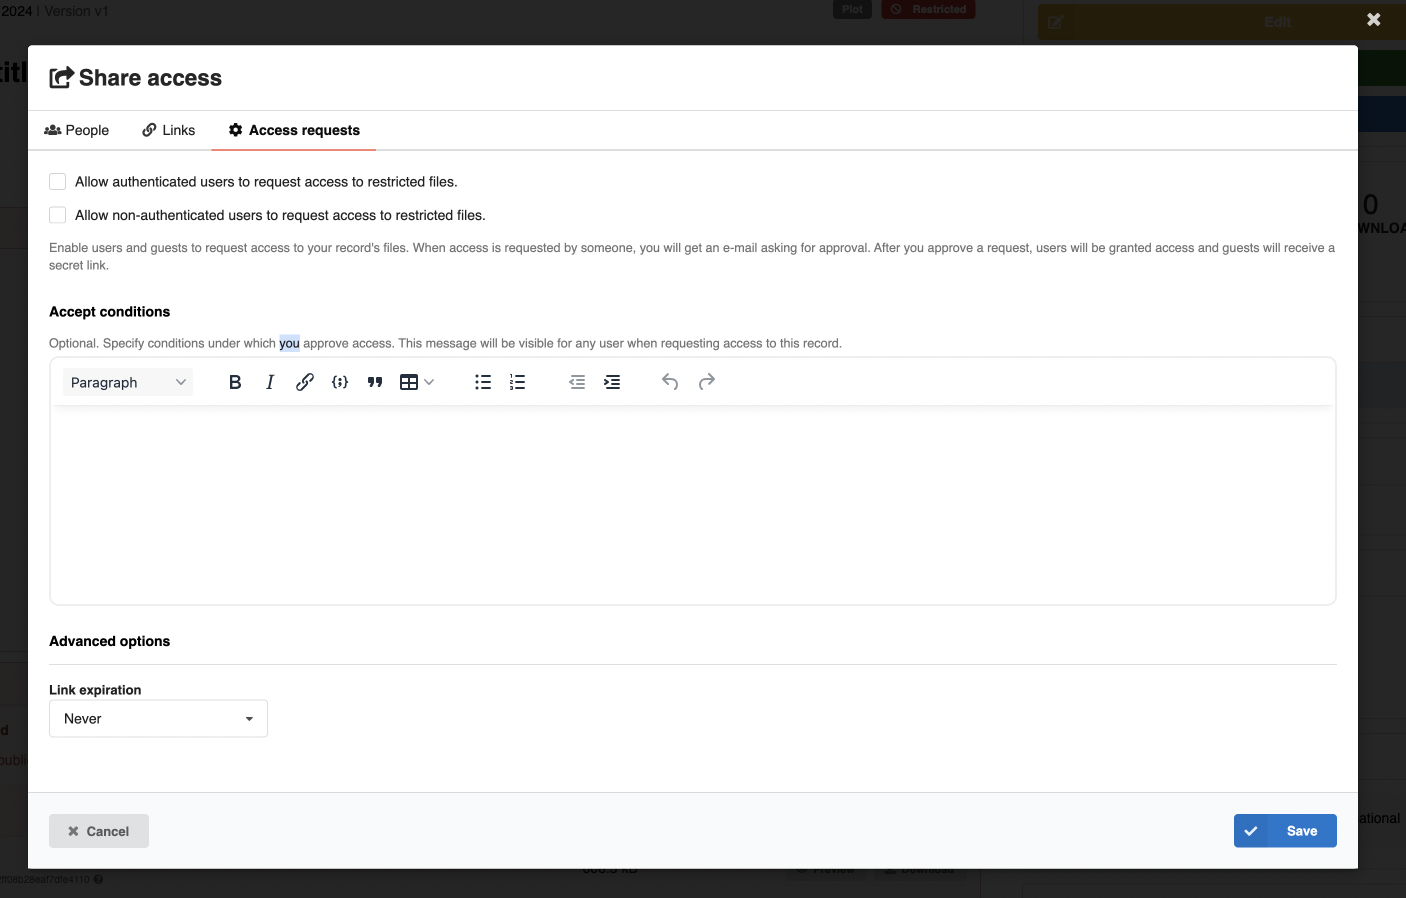
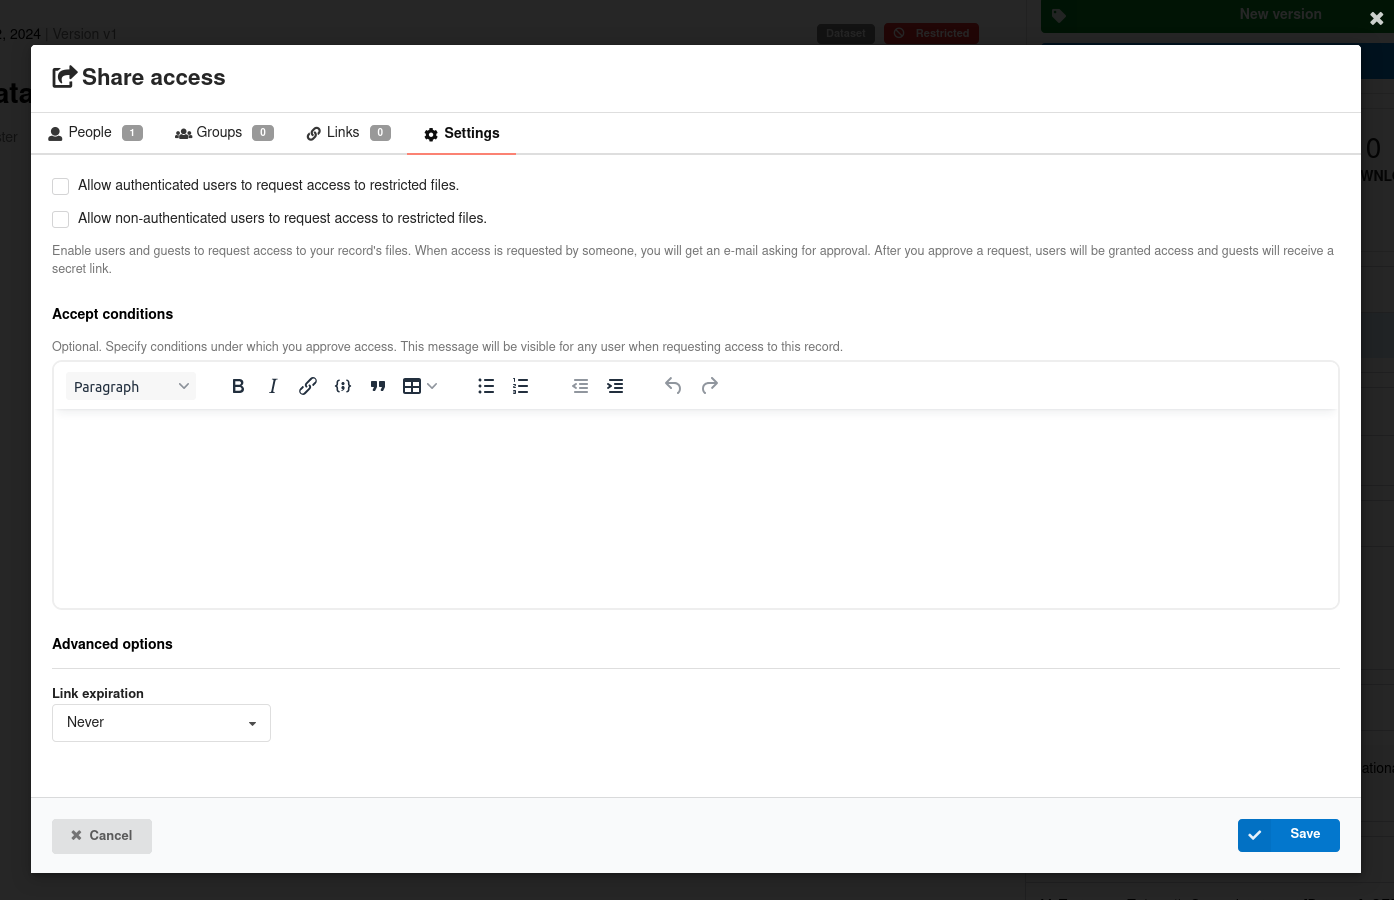
notifications+access request: primp for v12 release notes

diff --git a/docs/features/features-walk-through/access_requests.md b/docs/features/features-walk-through/access_requests.md
@@ -11,15 +11,21 @@ Note: accepted access requests grant to the requestor access to **all** versions
 ## Enable access requests
 
 As a record owner, you first need to allow accessing restricted files via a request:
+
 0. Create a record with restricted files
+
 1. Click on the "Share" button on the record landing page:
 ![Share button](./img/access_request_share_button.png)
-2. Navigate to the "Access requests" tab of the modal:
+
+2. Navigate to the "Settings" tab of the modal:
 ![Access requests tab](./img/access_requests_tab.png)
+
 3. Change the settings for the access requests:
-*  Allow authenticated or/and unauthenticated users to request access to restricted files of your record.
-*  Accept conditions. Provide a message that will be visible to the users in the request form (see screenshots below)
-*  Set access expiration date. This setting will be applied by default to all access requests. When reviewing an access request, you can set a different value.
+
+    * Allow authenticated or/and unauthenticated users to request access to restricted files of your record.
+    * Accept conditions. Provide a message that will be visible to the users in the request form (see screenshot below)
+    * Set access expiration date. This setting will be applied by default to all access requests. When reviewing an access request, you can set a different value.
+
 4. Save your changes
 ![Access requests tab save](./img/access_requests_tab_save.png)
 

diff --git a/docs/features/features-walk-through/notifications.md b/docs/features/features-walk-through/notifications.md
@@ -1,8 +1,10 @@
 # Notifications
 
-Notifications are sent at specific events (e.g. community invitation, community recod submission), to inform users of relevant actions. Institutions can define their own available ways of sending notifications. InvenioRDM ships with E-Mail notifications as standard.
+_Introduced in InvenioRDM v12_
 
-As an example, imagine submitting a record to a community. When you do this, a notification will be sent to community owners and managers informing them of your request. When they comment on your request, you will receive a notification of said comment. This will allow all participating parties to get informed of relevant actions and updates, without the need of manually observing the site.
+Notifications are sent at specific events (e.g. community invitation, community record submission), to inform users of relevant actions. Institutions can define their own available ways of sending notifications. InvenioRDM ships with E-Mail notifications as standard.
+
+As an example, imagine submitting a record to a community. When you do this, a notification will be sent to community owners and managers informing them of your request. When they comment on your request, you will receive a notification of said comment. This will allow all participating parties to get informed of relevant actions and updates, without anyone needing to manually observe the site.
 
 ## Notification Settings
 

diff --git a/docs/develop/architecture/notifications.md b/docs/develop/architecture/notifications.md
@@ -6,6 +6,7 @@ The notification system in InvenioRDM is provided via the [`invenio-notification
 
 
 ## Service Level
+
 Notifications are registered at the service level in the unit of work and send off to a celery task - which takes care of further processing. When dispatching this notification in the service, the context shall be as minimal as possible, to reduce passing huge chunks of data.
 The implications of sending all of the required immediately would be a hit on performance and higher memory usage.
 As the notification operations are registered during methods of the service level, it would increase response time for requests using these methods.
@@ -28,9 +29,8 @@ After it is build, it can be dumped and send to a background task for further pr
 
 
 ## Notification Manager
+
 A notification manager is created, which will rely on certain [configuration values](../howtos/notifications.md#configuration-values) and provide logic to send notifications. Its task is also to call respective methods to resolve the notification context, generate recipients, filter recipients and generate the backend ids for further processing. With all information created, it will then dispatch further tasks to relay the notification to the backend, which will take care of sending the actual notification.
-
-
 
 <details>
 <summary>A recipient entity could look like this</summary>
